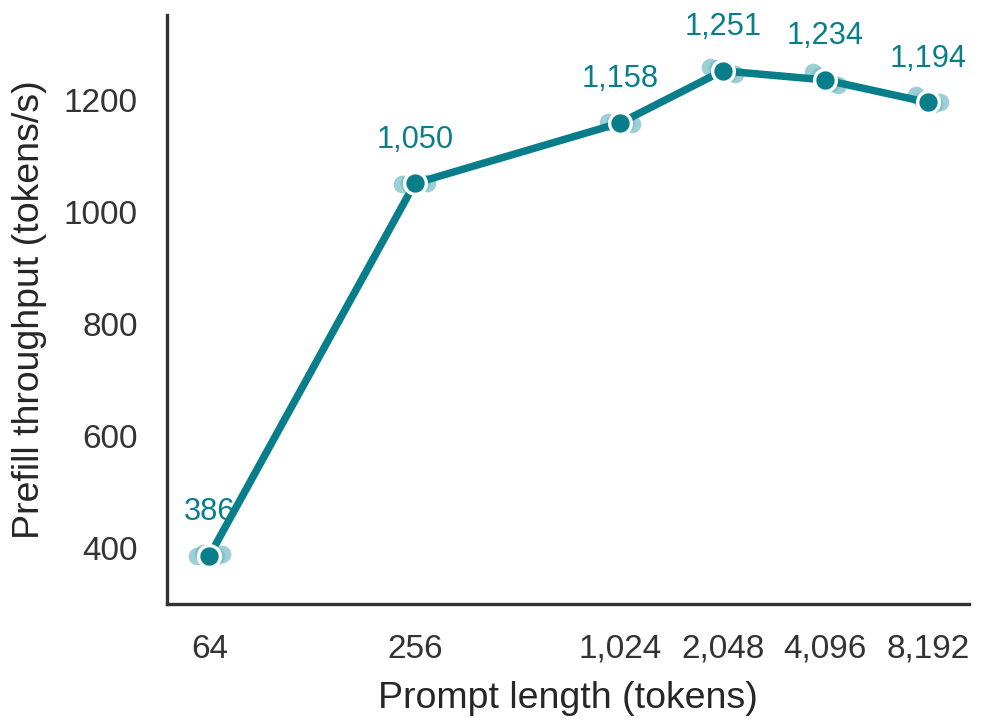
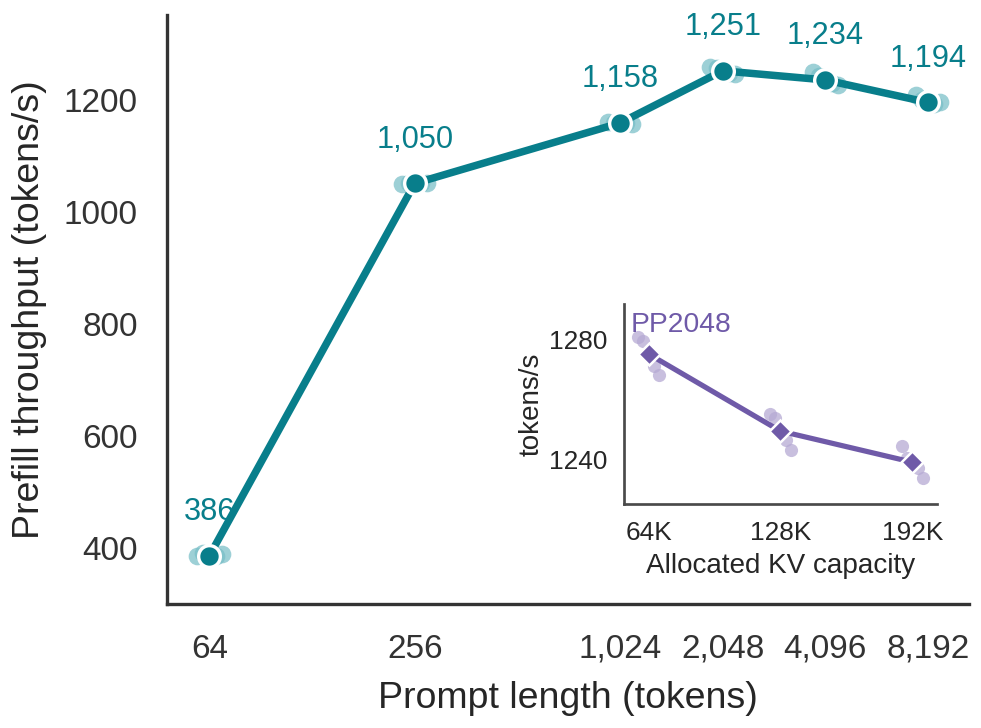
docs(gfx11): add PP2048 capacity points to prefill plot

Changed region(s): [[0.581, 0.544, 0.948, 0.7857], [0.5505, 0.4231, 0.7645, 0.544], [0.5199, 0.4835, 0.5505, 0.6346]]

diff --git a/experiments/qwen38-fullopt-ar/plot_results.py b/experiments/qwen38-fullopt-ar/plot_results.py
@@ -23,6 +23,8 @@ PREFILL_COLOR = "#087E8B"
 PREFILL_POINT_COLOR = "#78BEC7"
 DECODE_COLOR = "#D1495B"
 DECODE_POINT_COLOR = "#E9A0AA"
+CAPACITY_COLOR = "#6F5AA8"
+CAPACITY_POINT_COLOR = "#B6AAD4"
 JITTER = np.array([-0.12, -0.06, 0.0, 0.06, 0.12])
 
 
@@ -73,13 +75,16 @@ def save_figure(fig: plt.Figure, output_dir: Path, stem: str) -> None:
 
 
 def plot_prefill(data: pd.DataFrame, output_dir: Path) -> None:
-    data = data[data["workload"] == "prefill"].copy()
-    token_counts = np.sort(data["prefill_tokens"].unique())
-    summary = data.groupby("prefill_tokens", sort=True)["prefill_tok_s"].median()
+    prefill = data[data["workload"] == "prefill"].copy()
+    capacity = data[data["workload"] == "capacity"].copy()
+    token_counts = np.sort(prefill["prefill_tokens"].unique())
+    summary = prefill.groupby("prefill_tokens", sort=True)["prefill_tok_s"].median()
 
     fig, ax = plt.subplots(figsize=(3.45, 2.55))
     for x in token_counts:
-        samples = data.loc[data["prefill_tokens"] == x, "prefill_tok_s"].to_numpy()
+        samples = prefill.loc[
+            prefill["prefill_tokens"] == x, "prefill_tok_s"
+        ].to_numpy()
         x_jittered = x * np.power(2.0, JITTER[: len(samples)])
         ax.scatter(
             x_jittered,
@@ -123,6 +128,61 @@ def plot_prefill(data: pd.DataFrame, output_dir: Path) -> None:
     ax.set_xlabel("Prompt length (tokens)")
     ax.set_ylabel("Prefill throughput (tokens/s)")
     finish_axes(ax)
+
+    capacities = np.sort(capacity["kv_seq"].astype(int).unique())
+    capacity_positions = np.arange(len(capacities), dtype=float)
+    capacity_summary = capacity.groupby("kv_seq")["prefill_tok_s"].median()
+    inset = ax.inset_axes((0.57, 0.17, 0.39, 0.34))
+    for position, kv_capacity in zip(capacity_positions, capacities):
+        samples = capacity.loc[
+            capacity["kv_seq"].astype(int) == kv_capacity, "prefill_tok_s"
+        ].to_numpy()
+        inset.scatter(
+            position + JITTER[: len(samples)] * 0.65,
+            samples,
+            s=10,
+            color=CAPACITY_POINT_COLOR,
+            alpha=0.75,
+            linewidth=0,
+            zorder=2,
+        )
+
+    capacity_medians = np.array(
+        [capacity_summary.loc[str(value)] for value in capacities]
+    )
+    inset.plot(
+        capacity_positions,
+        capacity_medians,
+        color=CAPACITY_COLOR,
+        linewidth=1.25,
+        marker="D",
+        markersize=3.8,
+        markeredgecolor="white",
+        markeredgewidth=0.6,
+        zorder=3,
+    )
+    inset.set_xticks(capacity_positions)
+    inset.set_xticklabels([f"{value // 1024}K" for value in capacities], fontsize=6.5)
+    inset.set_yticks([1240, 1280])
+    inset.set_ylim(1225, 1292)
+    inset.set_xlabel("Allocated KV capacity", fontsize=6.7, labelpad=2)
+    inset.set_ylabel("tokens/s", fontsize=6.7, labelpad=1)
+    inset.text(
+        0.02,
+        0.96,
+        "PP2048",
+        transform=inset.transAxes,
+        ha="left",
+        va="top",
+        fontsize=6.8,
+        color=CAPACITY_COLOR,
+    )
+    inset.tick_params(axis="both", labelsize=6.3, width=0.6, length=2.5, pad=1.5)
+    for spine in ("left", "bottom"):
+        inset.spines[spine].set_linewidth(0.65)
+        inset.spines[spine].set_color("#4A4A4A")
+    sns.despine(ax=inset, top=True, right=True, left=False, bottom=False)
+    inset.grid(False)
     save_figure(fig, output_dir, "qwen38_prefill_scaling")
 
 
